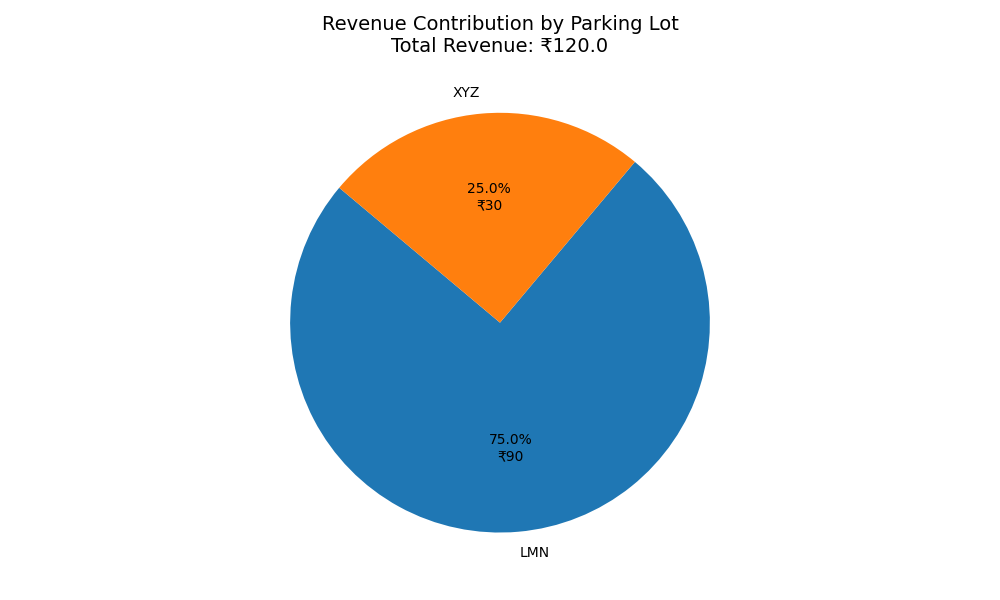
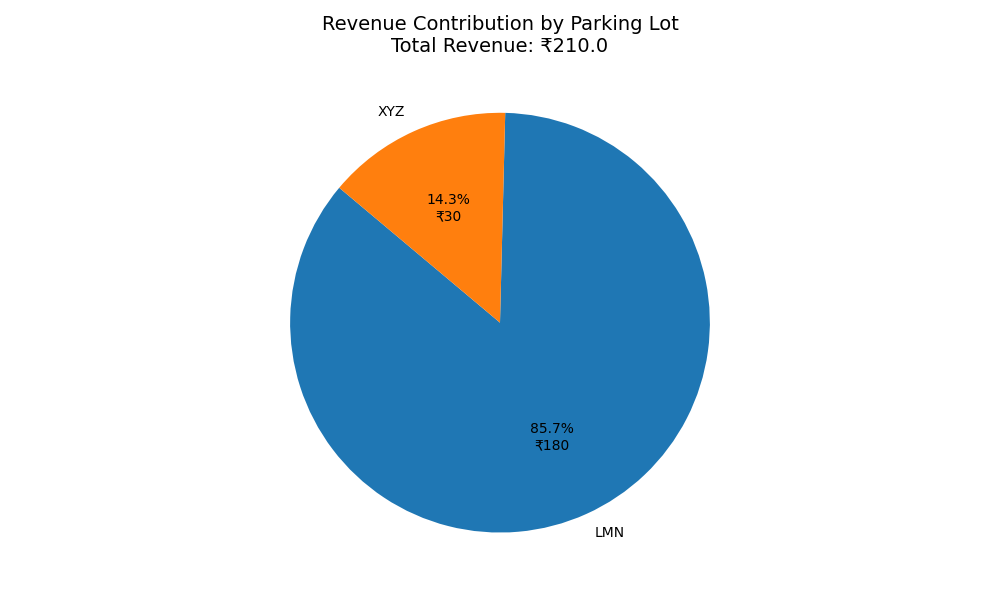
modifications

diff --git a/templates/booking_history.html b/templates/booking_history.html
@@ -82,7 +82,7 @@
                             <form action="{{ url_for('release', booking_id=booking.id) }}" method="POST">
                             <button type="submit" class="btn btn-sm btn-primary">Release</button>
                             </form>
-                        </td>
+</td>
 
                         </td>
                     </tr>
@@ -93,6 +93,7 @@
             </table>
         </div>
     </div>
+
 
     <div class="section-title text-secondary">
         <i class="bi bi-calendar-check"></i> Past Parking History
@@ -130,6 +131,7 @@
             </table>
         </div>
     </div>
+
 </div>
 
 <link href="https://cdn.jsdelivr.net/npm/bootstrap-icons@1.11.1/font/bootstrap-icons.css" rel="stylesheet">

diff --git a/templates/login.html b/templates/login.html
@@ -5,6 +5,7 @@
     <meta http-equiv="X-UA-Compatible" content="IE=edge">
     <meta name="viewport" content="width=device-width, initial-scale=1.0">
     <title>Login</title>
+
     <link href="https://cdn.jsdelivr.net/npm/bootstrap@5.3.0/dist/css/bootstrap.min.css" rel="stylesheet">
     <style>
         body {
@@ -44,7 +45,7 @@
                 <input type="password" class="form-control" id="password" name="password" required>
             </div>
 
-{% with messages = get_flashed_messages(with_categories=true) %}
+            {% with messages = get_flashed_messages(with_categories=true) %}
   {% if messages %}
     {% for category, message in messages %}
       <div class="alert alert-{{ category }} alert-dismissible fade show" role="alert">
@@ -64,7 +65,6 @@
             </div>
         </form>
     </div>
-
     <script src="https://cdn.jsdelivr.net/npm/bootstrap@5.3.0/dist/js/bootstrap.bundle.min.js"></script>
 </body>
 </html>

diff --git a/templates/edit_parking.html b/templates/edit_parking.html
@@ -8,7 +8,7 @@
 </head>
 <body>
 
-{% with messages = get_flashed_messages(with_categories=true) %}
+    {% with messages = get_flashed_messages(with_categories=true) %}
   {% if messages %}
     {% for category, message in messages %}
       <div class="alert alert-{{ 'danger' if category == 'error' else category }} alert-dismissible fade show" role="alert">
@@ -50,6 +50,5 @@
             </div>
         </div>
     </div>
-    
 </body>
 </html>

diff --git a/templates/admin.html b/templates/admin.html
@@ -29,7 +29,6 @@
         }
     </style>
 </head>
-
 <body>
     <nav class="navbar navbar-expand-lg navbar-light bg-white shadow-sm">
         <div class="container">
@@ -59,7 +58,6 @@
     </div>
         </div>
     </nav>
-
     <div class="container py-5">
         <h1 class="dashboard-header mb-5 text-center">Admin Dashboard</h1>
         <div class="row justify-content-center g-4">

diff --git a/templates/index.html b/templates/index.html
@@ -86,6 +86,6 @@
         &copy; 2025 ParkEase. All rights reserved.
     </footer>
 
-<script src="https://cdn.jsdelivr.net/npm/bootstrap@5.3.6/dist/js/bootstrap.bundle.min.js"></script>
+    <script src="https://cdn.jsdelivr.net/npm/bootstrap@5.3.6/dist/js/bootstrap.bundle.min.js"></script>
 </body>
 </html>

diff --git a/templates/manage_user.html b/templates/manage_user.html
@@ -11,7 +11,7 @@
 <nav class="navbar navbar-expand-lg navbar-light bg-light shadow-sm">
   <div class="container">
     <a class="navbar-brand fw-bold d-flex align-items-center" href="/admin">
-      <i class="bi bi-geo-alt-fill me-2"></i> SmartPark Admin
+      <i class="bi bi-geo-alt-fill me-2"></i> ParkEase Admin
     </a>
 
     <button class="navbar-toggler" type="button" data-bs-toggle="collapse" data-bs-target="#navbarAdmin">

diff --git a/templates/signup.html b/templates/signup.html
@@ -52,7 +52,6 @@
             </form>
         </div>
     </div>
-
     <script src="https://cdn.jsdelivr.net/npm/bootstrap@5.3.0/dist/js/bootstrap.bundle.min.js"></script>
 </body>
 </html>

diff --git a/app.py b/app.py
@@ -226,7 +226,7 @@ def booking(parking_id):
             func.lower(ParkingSpot.status) == 'a'
         ).first()
 
-        print(f"Available spot found for booking: {available_spot}")
+        print(f"Available spot found for booking: {available_spot}")  
 
         if not available_spot:
             flash('No available spots for booking.', 'danger')
@@ -276,7 +276,10 @@ def history():
     recent_bookings = [b for b in all_bookings if b.status.lower().strip() == 'o']
     past_bookings = [b for b in all_bookings if b.status.lower().strip() != 'o']
 
-    return render_template('booking_history.html', recent_bookings=recent_bookings, past_bookings=past_bookings)
+    return render_template('booking_history.html',
+                           recent_bookings=recent_bookings,
+                           past_bookings=past_bookings)
+
 
 @app.route('/delete_spot/<int:spot_id>', methods=['GET', 'POST'])
 def delete_spot(spot_id):
@@ -297,6 +300,8 @@ def delete_spot(spot_id):
     return redirect(url_for('parking'))
 
 
+
+
 @app.route('/release/<int:booking_id>', methods=['GET', 'POST'])
 def release(booking_id):
     if 'username' not in session:
@@ -310,7 +315,7 @@ def release(booking_id):
 
     booking.end_time = datetime.now()
     duration = booking.end_time - booking.start_time
-    hours = max(1, int(duration.total_seconds() // 3600))  
+    hours = max(1, int(duration.total_seconds() // 3600)) 
     booking.parking_cost = hours * booking.spot.parking.price
     booking.status = 'Released'
     booking.spot.status = 'A'  
@@ -448,9 +453,11 @@ def user_summary():
         user_occupied_counts.append(user_occupied)
         other_spots_counts.append(other_spots)
 
-    plt.figure(figsize=(18, 9)) 
+    plt.figure(figsize=(18, 9))  
 
     x = range(len(lot_names))
+
+
 
     plt.bar(x, user_occupied_counts, color='#dc3545', label='Your Occupied Spots')
     plt.bar(x, other_spots_counts, color='#198754', label='Available or Occupied by Others', bottom=user_occupied_counts)
@@ -461,7 +468,7 @@ def user_summary():
     plt.title('Your Occupied Spots vs Others by Parking Lot', fontsize=20)
     plt.legend(fontsize=14)
     plt.tick_params(axis='y', labelsize=14)
-    plt.tight_layout(pad=4) 
+    plt.tight_layout(pad=4)  
 
     chart_folder = os.path.join('static', 'charts')
     os.makedirs(chart_folder, exist_ok=True)